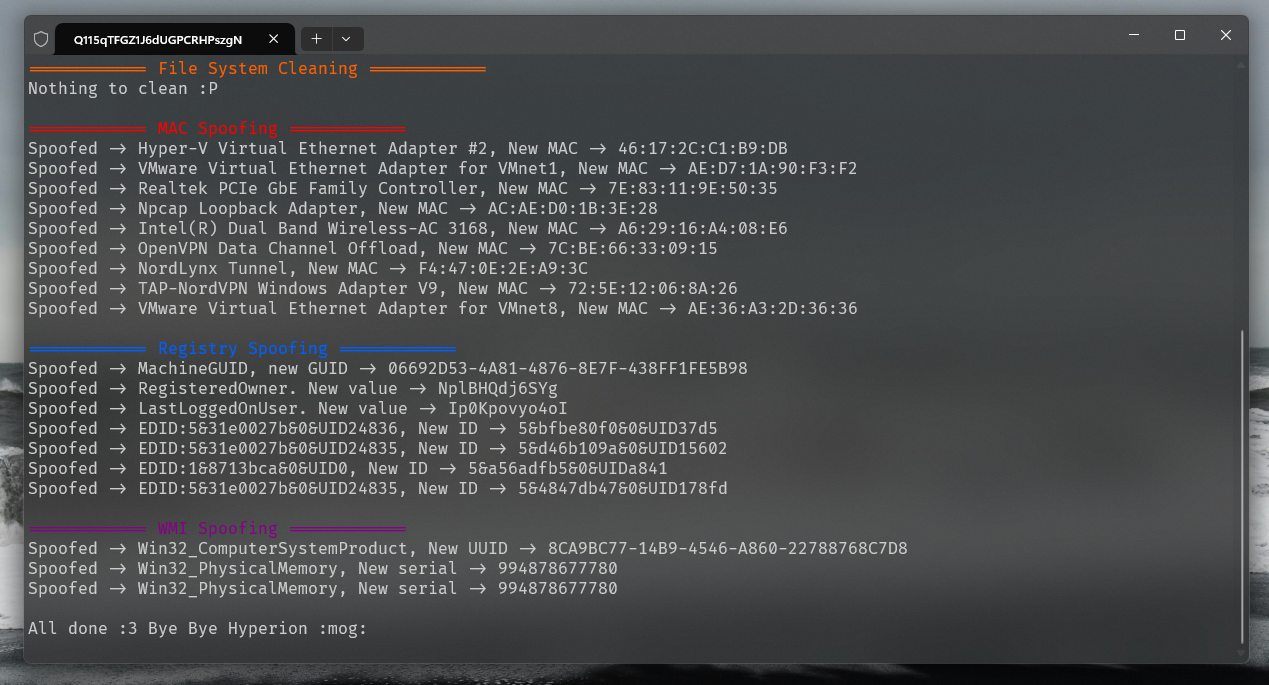
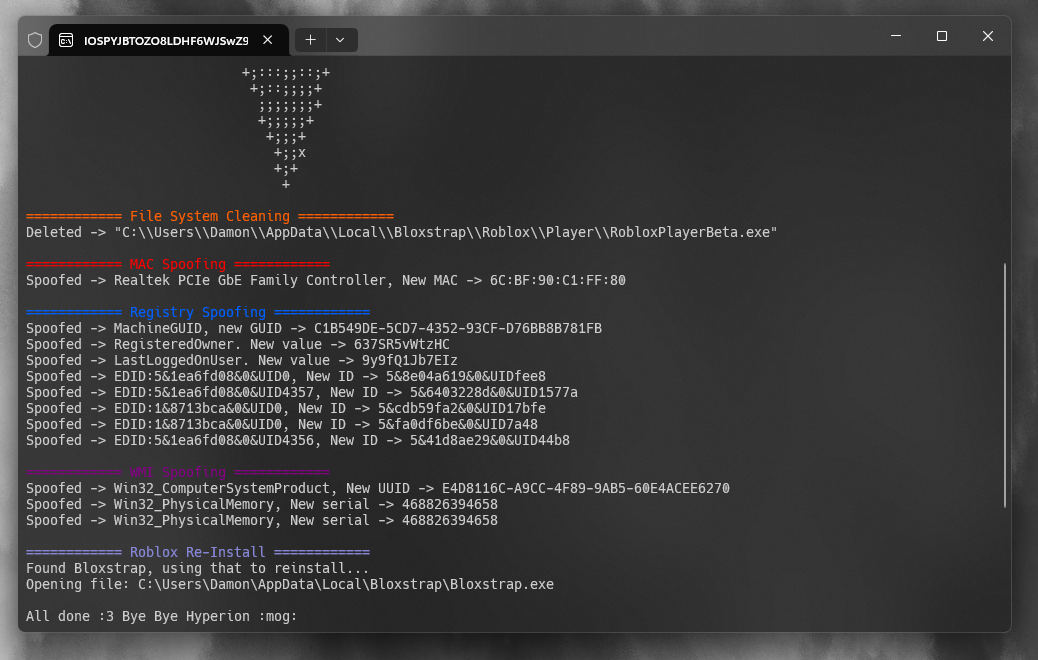
1.1 Roblox Re-Install implementation + Opts
Must have either Bloxstrap.exe where it should be or RobloxPlayerInstaller.exe in downloads somewhere.

diff --git a/Container/Services/Services.hpp b/Container/Services/Services.hpp
@@ -1,4 +1,4 @@
-#pragma once
+#pragma once
 
 #include "Defs.h"
 
@@ -275,30 +275,44 @@ namespace Services {
             << "\033[0m";
     }
 
+#pragma warning(disable : 4566)
+
     inline void TITAN() {
         std::string art = R"(
-                                dMb,
-                            ,dMMMMb,          ,,
-                            ,dMMMMMMMMMb, eeee8888"
-                        ,mMMm!!!!XXXXMMMMM"""
-                    ,d!!XXMMXX88888888W"
-                    `MX88dMM8888WWWMMMMMMb,
-                        '""MMMMMMMMMMMMMMMMb
-                            MMMMMMMMMMMMMMMMMMb,
-                        dMMMMMMMMMMMMMMMMMMMMb,,
-            _,dMMMMMMMMMMXXXX!!!!!!!!!!!!!!XXXXXMP
-        _,dMMXX!!!!!!!!!!!!!!!!!!XXXXX888888888WWC
-    _,dMMX!!!MMMM!!!!!!!!XXXXXX888888888888WWMMMMMb,
-    dMMX!!!!!MMM!XXXXXX88888888888888888WWMMMMMMMMMMMb
-    dMMXXXXXX8MMMM88888888888888888WWWMMMMMMMMMMMMMMMMMb    ,d8
-    MMMMWW888888MMMMM8888888WWMMMMMMMMMMMMMMMMMMMMMMMMMMM,d88P'
-    YMMMMMWW888888WWMMMMMMMMMMP"""'    `"YMMMMMMMMMMMXMMMMMP
-        `""YMMMMMMMMMMMMMP""'            mMMMm!XXXXX8888888e,
-                                    ,d!!XXMM888888888888WW
-Swedish.Psycho                     "MX88dMM888888WWWMMMMMMb
-TITAN Spoofer V1.0                      """```"YMMMMMMMYMMM
-Hyperion: 'New phone, who dis?                    `"YMMMMM
-https://github.com/dutchpsycho/                     `"YMP
+       ++x                                             +++x              
+        +;++x           TITAN Spoofer V1.1          +++;+x               
+         +;;;;++          Swedish.Psycho         +++;;;++                
+         +;::::;;++                           ++;;;;;;;+                 
+          +:::::::;; ++                   ++x;;:::::::+                  
+          +;:::::::;  ++++             x++++ ;;::::::;+                  
+           +;::::::;;  ;;;;++       ++;;;;; x;:::::::+                   
+           +;::::::;;  +;::::;;   ;;::::;+  ;;::::::;+                   
+            +:::::::;  +;:::::;   ;:::::;+  ;;::::::++                   
+            +;::::::;;  ;:::::;   ;:::::;+  ;::::::;+                    
+             +::::::;;  ;;::::;x  ;:::::;  ;;::::::++                    
+             +;:::::;+  +;::::;+  ;::::;;  ;;:::::;+                     
+              ;::::::;  +;::::;+  ;::::;+  +::::::;+                     
+              +;:::::;  ;;::::;;  ;::::;+  ;:::::++                      
+                +;:::;  +;::::;; x;::::;;  ;::::+                        
+                 +;::;;  ;::::;; +;::::;;  ;::;+                         
+                  +;:;;  ;;:::;; +;::::;  ;;:;+                          
+                    +;;  ;;:::;; ;;:::;;  ;;+                            
+                     x;+ ;;:::;; ;;:::;;  ;+                             
+                         +;:::;; ;;:::;+                                 
+                          ;:::;; ;;:::;+                                 
+                          ;;::;; ;;:::;                                  
+                          ;;::;; ;;:::;                                  
+                          ;:::;; ;;:::;+                                 
+                          +;:::; ;::::+                                  
+                          ++:::;x;:::;+                                  
+                           +;:::;;::;+                                   
+                            +;::;;;;+                                    
+                             ;;;;;;;+                                    
+                             +;;;;;+                                     
+                              +;;;+                                      
+                               +;;x                                      
+                               +;+                                       
+                                +                                        
     )";
         std::cout << art;
     }

diff --git a/README.md b/README.md
@@ -2,48 +2,44 @@
 
 TITAN Softwork Solutions © 2024
 
+![TITAN Spoofer](./Images/Start.png)
+![TITAN Spoofer](./Images/End.png)
+
 ![CC BY-NC-ND 4.0](https://img.shields.io/badge/License-CC%20BY--NC--ND%204.0-lightgrey?style=for-the-badge)
 ![TITAN Softwork Solutions](https://img.shields.io/badge/TITAN_Softwork_Solutions-Discord-blue?style=for-the-badge&logo=discord)
 
-![TITAN Spoofer](./Images/Start.png)
-![TITAN Spoofer](./Images/End.png)
 ![TITAN Spoofer](./Images/TITAN%20(Custom).png)
 
 # 📜 Context
 
-**[TITAN's](https://titansoftwork.net/)** Spoofer is a tool designed to prevent you from being banned when using executors on Web Roblox.
+**[TITAN's](https://titansoftwork.net/)** Spoofer is a tool designed to prevent you from being banned while exploiting on Windows/Web Roblox.
 
 Recently, Roblox introduced it's ban API & combined it with Hyperion's (Byfron) detection vectors, after seeing executor developers create paid spoofers I decided to do the exploiting community a favour & make a free one.
 
-The idea is to spoof after you've exploited, before you go back onto your main. Once you're done with your main & wanna exploit again, spoof. You get the idea (Hopefully)
+The idea is to spoof after you've exploited, before you go back onto your main. Once you're done with your main & wanna exploit again, spoof. Simple.
 
 # 💎 Features
 
-- 👥 **Ban API & Alt Detection evasion**: Using this clears any previous identities Roblox had on you, meaning any account you launch now is brand new in Roblox eyes.
-- 🔐 **Hyperion/HWID Unban**: If you're HWID banned (Hyperion banned) this'll fix that for you.
-- 📚 **Complete Anti-Ban Bible**: A complete Anti-Ban guide exists within the official TITAN Discord.
+- 👥 **Ban API Evasion**: Using this gives your PC a "clean slate".
+- ♻ **Fully automatic Roblox Reinstall**: Uses Bloxstrap or RobloxPlayerInstaller.exe to reinstall Roblox.
+- ⚖ **Hyperion/HWID Unban**: If you're HWID banned (Hyperion banned) this'll fix that for you.
+- 📖 **Complete Anti-Ban Bible**: A complete Anti-Ban guide exists within the official TITAN Discord.
 
 <br>
 
-# Disclaimer 🚨
+# Disclaimer ⚠
 
-This won't unban you if your Roblox account is banned, that's handled server-side nothing I can do about that. This also won't get you unbanned from Roblox games, however it will get rid of any ban traces and allow you to work around Ban API if used correctly.
-
-<br>
-
-# 📈 Version History
-
-Previous versions are irrelevant, I've fully rewritten this project as of Novemember 2024. In future (Hyperion V5) this project will be updated.
+This WILL NOT unban you if your Roblox account is banned ONSITE, that's handled server-side there's nothing I can do about that. This also applies to Roblox games.
 
 <br>
 
 # 📦 Installation & Setup
 
-Prefer not to compile the code yourself? **[Download the exe from TITAN's Discord](https://titansoftwork.net).**
-
+Don't want to compile? **[Download the exe from the Discord](https://titansoftwork.net).**
+ 
 ### 📚 Requirements
 
-Visual Studio & It's C++ build tools
+Visual Studio & C++ build tools from Visual Studio Installer
 
 ### 🖥 Guide
 
@@ -64,25 +60,13 @@ Visual Studio & It's C++ build tools
     - Click build solution
     - The compiled binarie (exe) will be located in the `/Release` directory.
 
-**Usage Reminder:**
-- Spoof after exploiting and before returning to your main account.
-- Repeat spoofing before each new exploit session.
-
 <br>
-
-here’s the updated guide with more details for developers, specifically about using the `TITAN.h` file in their projects:
-
----
 
 # 🔱 For Developers
 
-### What’s Provided in `TITAN.h`
+### `TITAN.h`
 
-I've included TITAN.h for you to use. It's modular & can be integrated with logging or without, single threaded or multi & is extremely flexible with what to spoof.
-
-### What does it do?
-
-Essentially the same thing as spoofer, but you can customize the process, if this is for your executor I'd reccomend running it before Roblox opens, unless you want to kill Roblox or disable the file system cleaning.
+I've included TITAN.h for you to include in your software. Each spoof vector can be toggled, console logging also toggleable, its all up to you.
 
 #### Example Integration
 
@@ -95,13 +79,11 @@ Essentially the same thing as spoofer, but you can customize the process, if thi
     TitanThread.join();
 ```
 
----
-
 ### 🔧 Options
 
 **Function: `TitanSpoofer::run(bool logs)`**
 
-- **Parameters:**
+- **Params:**
   - `logs` (`true`/`false`): Controls whether logging is enabled. If `false`, suppresses all `std::cout` output except errors.
 - **Return Value:** A `std::thread` object that executes the spoofing process.
 
